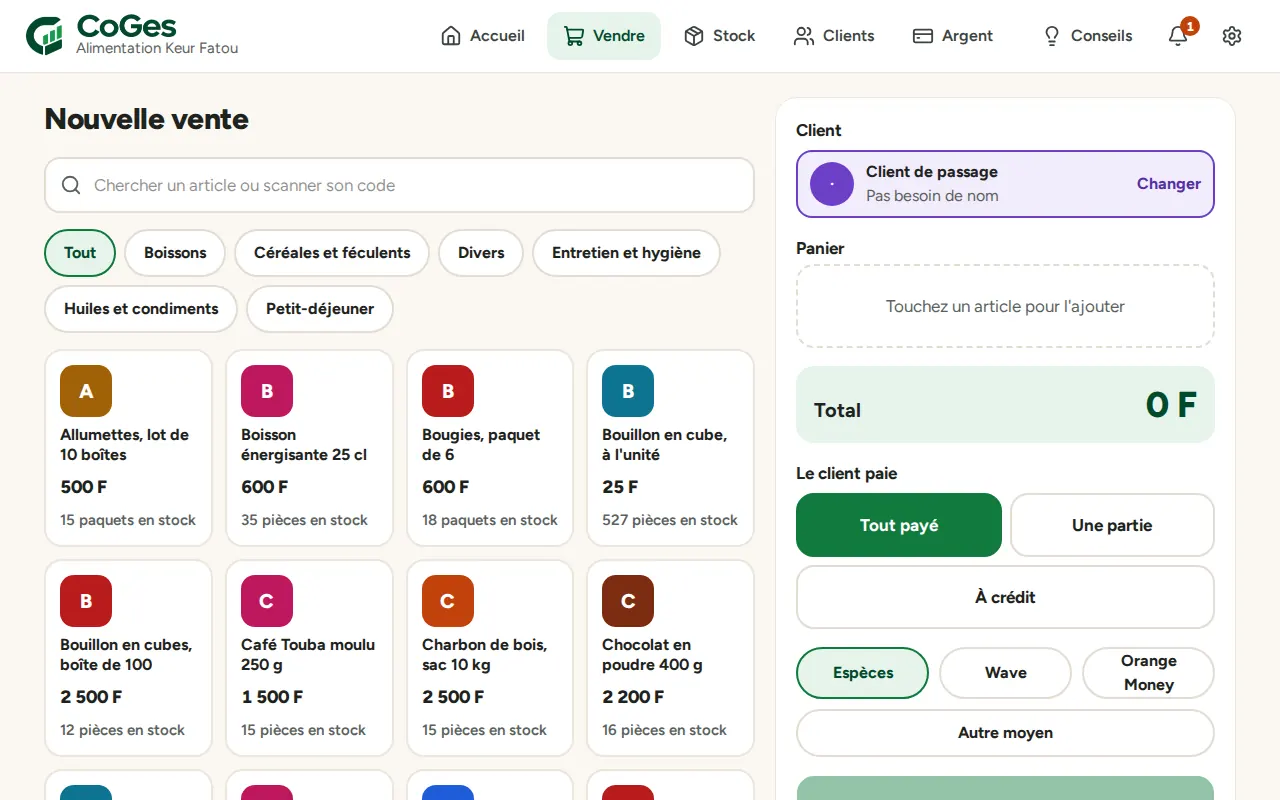
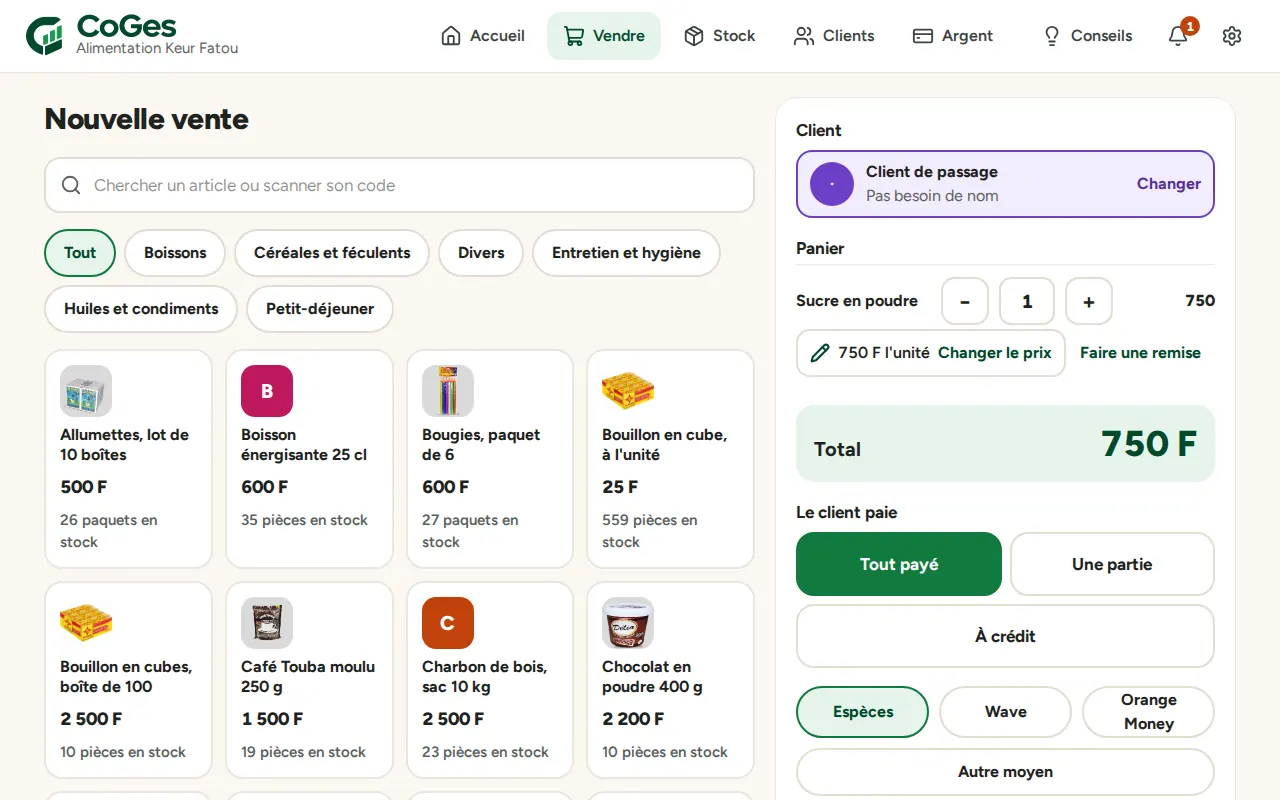
feat(front): desktop till capture shows real article photos (prompt 39, block P)
Photos supplied by the owner go through the real upload route to the
e2e fake Cloudinary, are served locally to the browser, then removed so
the demo stays photo-free for other suites. The new capture replaces the
desktop preview and the share image; the phone capture is unchanged.

diff --git a/frontend/e2e/captures-vitrine.spec.ts b/frontend/e2e/captures-vitrine.spec.ts
@@ -1,9 +1,9 @@
-import { readFileSync } from "node:fs";
+import { readdirSync, readFileSync } from "node:fs";
 import { join } from "node:path";
 
-import { expect, test, type Page } from "@playwright/test";
+import { expect, test, type APIRequestContext, type Page } from "@playwright/test";
 
-import { DEMO, loginThroughUi } from "./fixtures";
+import { DEMO, loginThroughUi, managerToken } from "./fixtures";
 import { settle } from "./screens";
 
 /**
@@ -26,18 +26,76 @@ async function hidePendingBanner(page: Page) {
     .evaluateAll((nodes) => nodes.forEach((node) => node.closest("[role=status], div")?.remove()));
 }
 
+/**
+ * Photos des articles de la démo pour la capture de la caisse (prompt 39, bloc P, ADR 0123) :
+ * `e2e/photos-demo/<référence>.jpg`, fournies par le propriétaire avec l'accord de leurs
+ * ayants droit. Elles passent par le vrai chemin (`PUT /products/{id}/photo`, vers le faux
+ * Cloudinary de l'API des parcours) ; le navigateur reçoit ensuite le fichier local à la place
+ * de `res.cloudinary.com`, sans réseau. Retirées après la capture : la démo des autres
+ * parcours reste sans photo.
+ */
+const PHOTOS = join(__dirname, "photos-demo");
+
+async function withDemoPhotos(
+  page: Page,
+  request: APIRequestContext,
+  capture: () => Promise<void>,
+): Promise<void> {
+  const headers = { Authorization: `Bearer ${await managerToken(request, DEMO)}` };
+  const byPublicId = new Map<string, Buffer>();
+  const placed: string[] = [];
+  try {
+    for (const file of readdirSync(PHOTOS).filter((name) => name.endsWith(".jpg"))) {
+      const sku = file.replace(/\.jpg$/, "");
+      const found = await request.get(`/api/v1/products?search=${encodeURIComponent(sku)}`, {
+        headers,
+      });
+      const product = (await found.json()).items.find((item: { sku: string }) => item.sku === sku);
+      expect(product, sku).toBeTruthy();
+      const body = readFileSync(join(PHOTOS, file));
+      const saved = await request.put(`/api/v1/products/${product.id}/photo`, {
+        headers,
+        multipart: { file: { name: file, mimeType: "image/jpeg", buffer: body } },
+      });
+      expect(saved.ok(), `${sku} → ${saved.status()}`).toBeTruthy();
+      byPublicId.set((await saved.json()).photo.public_id, body);
+      placed.push(product.id);
+    }
+    await page.route("https://res.cloudinary.com/**", (route) => {
+      const url = route.request().url();
+      const body = [...byPublicId].find(([id]) => url.endsWith(`/${id}`))?.[1];
+      return body
+        ? route.fulfill({ status: 200, contentType: "image/jpeg", body })
+        : route.fulfill({ status: 404 });
+    });
+    await capture();
+  } finally {
+    for (const id of placed) {
+      await request.delete(`/api/v1/products/${id}/photo`, { headers });
+    }
+  }
+}
+
 test.describe("captures de la vitrine", () => {
   test.skip(!OUT, "VITRINE_CAPTURES non défini");
   test.use({ colorScheme: "light" });
 
-  test("ordinateur : la caisse", async ({ page }) => {
+  test("ordinateur : la caisse, avec les photos des articles", async ({ page, request }) => {
     await page.setViewportSize({ width: 1280, height: 800 });
     await page.goto("/login");
     await loginThroughUi(page, DEMO);
     await expect(page).toHaveURL(/\/dashboard$/, { timeout: 30_000 });
-    await page.goto("/sales/new");
-    await settle(page);
-    await page.screenshot({ path: `${OUT}/ordinateur.png`, animations: "disabled" });
+    await withDemoPhotos(page, request, async () => {
+      await page.goto("/sales/new");
+      await settle(page);
+      // Toutes les vignettes visibles chargées avant la capture.
+      await page.waitForFunction(() =>
+        [...document.images]
+          .filter((image) => image.getClientRects().length > 0)
+          .every((image) => image.complete && image.naturalWidth > 0),
+      );
+      await page.screenshot({ path: `${OUT}/ordinateur.png`, animations: "disabled" });
+    });
   });
 
   test("téléphone : l'accueil", async ({ browser }) => {

diff --git a/frontend/content/vitrine-texte.ts b/frontend/content/vitrine-texte.ts
@@ -158,7 +158,7 @@ export const texte = {
     phoneAlt:
       "CoGes sur téléphone : l'accueil d'une épicerie de démonstration, avec le bouton « Nouvelle vente », le montant vendu aujourd'hui, l'argent dans la caisse, ce que les clients doivent, les articles à surveiller et les dernières ventes.",
     desktopAlt:
-      "CoGes sur ordinateur : l'écran « Nouvelle vente » d'une épicerie de démonstration, avec la recherche par nom ou code-barres, les rayons, les articles et leur prix, et à droite le panier, le total et le choix du paiement (espèces, Wave, Orange Money).",
+      "CoGes sur ordinateur : l'écran « Nouvelle vente » d'une épicerie de démonstration, avec la recherche par nom ou code-barres, les rayons, les articles avec leur photo et leur prix, et à droite le panier, le total et le choix du paiement (espèces, Wave, Orange Money).",
     phoneCaption: "Sur téléphone : l'accueil",
     desktopCaption: "Sur ordinateur : la caisse",
   },

diff --git a/CLAUDE.md b/CLAUDE.md
@@ -287,6 +287,7 @@ Légende : ⬜ à faire · 🟨 en cours · ✅ terminé (tests verts) · ⛔ bl
 | Groupe 5, N : notifications sur le téléphone | `36-groupe-5-corriger-une-vente-notifications-photos.md` | R | abonnement pour soi, adresse de service connu seulement, 5 appareils, isolation, envoi après COMMIT chiffré pour l'appareil, aucun montant par type, 404/410, rafale, personne qui agit, plafond horaire, déconnexion, clés VAPID (`check_runtime_env.py`) ; Vitest (lib, service worker) ; e2e Chromium (build de production) | 🟨 PR n° 84 (empilée sur 83) : ADR 0120, révision 0041 (`push_subscriptions`), `http-ece` 1.2.1 et `py-vapid` 1.9.6, `docs/runbooks/notifications.md` ; clés VAPID à poser par le propriétaire |
 | Groupe 5, I : photo d'un article | `36-groupe-5-corriger-une-vente-notifications-photos.md` | N | faux Cloudinary (signature vérifiée) : envoi, ré-encodage, métadonnées retirées, SVG et bombe refusés, retrait, article supprimé, COMMIT refusé, orphelines, isolation, droits, secret jamais rendu ; Vitest ; e2e (photo prise, vignette dans la grille, nouvel article, 360 px, axe) | 🟨 PR n° 85 (empilée sur 84) : ADR 0121, révision 0042 (`products.photo_*`), `PUT`/`DELETE /products/{id}/photo`, httpx sans SDK, `docs/runbooks/photos.md` ; compte et réglages Cloudinary à poser, sous-traitant à citer dans la confidentialité |
 | Groupe 5, A : fin du groupe | `36-groupe-5-corriger-une-vente-notifications-photos.md` | R, N, I | suite backend, ruff, mypy, front-check, admin-check, maquette-check, e2e des écrans touchés, PWA (Chromium et WebKit), fuite inter-tenant, pip-audit et gitleaks, CI | 🟨 PR n° 86 (empilée sur 85) : 2727 tests backend (1 échec local, `test_mailer.py`, qui dépend du `.env` du poste), 581 Vitest, maquette-check 41/41, PWA 13/13, analyses de sécurité propres ; PR 83 à 86 à fusionner dans l'ordre, puis déployer (révisions 0040 à 0042) après le groupe 2 |
+| Pages d'entrée : navigation, inscription, thème clair | `39-retouches-vitrine-inscription-connexion.md` | 37, 38, 30 | ancres de la navigation (Vitest), chemins toujours clairs (liste exacte), e2e en sombre (appareil + `theme=dark`) : pages claires, `/dashboard` sombre, stockage intact ; « Comment ça marche » (ordinateur, menu), inscription à 360 et 1280 px, axe, Lighthouse 100 (vitrine, `/login`, `/inscription`), maquette-check 41/41 | 🟨 PR N → S → C → P empilées : ADR 0123, sans révision ; 621 Vitest ; captures `docs/design/captures/prompt-39/` ; photos de la caisse fournies par le propriétaire (accord des ayants droit confirmé) |
 
 ## 9. Journal des décisions
 
@@ -415,6 +416,7 @@ Légende : ⬜ à faire · 🟨 en cours · ✅ terminé (tests verts) · ⛔ bl
 | 0120 | 2026-11-11 | **Notifications sur le téléphone** (prompt 36, bloc N) : Web Push par `http-ece` + `py-vapid` + httpx, clés `COGES_VAPID_*` (les trois ou aucune, `generate-vapid-keys`) ; `push_subscriptions` sous RLS (révision 0041, arrêt au lieu de DELETE, 5 appareils, un vivant par adresse) ; adresses de Google, Mozilla, Apple, Microsoft seulement ; `notify()` exige un texte par type sans montant (`push_texts`, revérifié à l'envoi), enfilé après COMMIT, envoyé par le worker hors transaction, 404/410 ⇒ arrêté ; rafale > 3/min ⇒ « N nouvelles alertes », `tag` commun ; pas de notification à qui annule ou corrige ; 30 par heure (Redis) ; écran `/account/notifications`, permission après l'appui, iPhone installé seulement, déconnexion ⇒ désabonné ; service worker `push` et `notificationclick` sans cache | `docs/decisions/0120-notifications-sur-le-telephone.md` |
 | 0121 | 2026-11-11 | **Photo d'un article chez Cloudinary** (prompt 36, bloc I) : envoi par le serveur (type lu dans le contenu, SVG et bombe refusés, JPEG 1600 px sans métadonnée, 5 Mo), dépôt signé par httpx sans SDK sous `coges-<env>/<entreprise>/<aléatoire>` ; révision 0042 (`products.photo_*`, toutes ou aucune) ; `PUT`/`DELETE /products/{id}/photo` (`products:update`, ou `products:create` sans photo), audit critique ; suppression par le worker après COMMIT, balayage de nuit des orphelines de plus de 24 h ; `COGES_CLOUDINARY_*` (trois ou aucun) ; vignettes `f_auto,q_auto` chargées à la demande, carré coloré sans photo ; CSP : `img-src` + `https://res.cloudinary.com` pour l'application seulement | `docs/decisions/0121-photo-d-un-article.md` |
 | 0122 | 2026-11-12 | **Adresse de l'API lue à l'exécution par le front** (correctif, amende 0047 et 0083) : `COGES_API_URL: http://${COGES_STACK}-api:8000` sur le service `front` (le bouton « Créer ma boutique » ne paraissait jamais : variable posée au build seulement) ; aucune adresse d'API dans les images `front`/`admin`, `next.config.ts` sans réécriture si elle manque au build (`api` est ambigu sur `coges_edge`) ; test découvert : toute lecture `process.env` du code servi est fournie par le compose | `docs/decisions/0122-adresse-de-l-api-lue-a-l-execution-par-le-front.md` |
+| 0123 | 2026-11-13 | **Pages d'entrée** (prompt 39) : « Comment ça marche » dans la navigation (`NAV_LINKS`, sections focalisables sous l'en-tête, WhatsApp de l'en-tête dès 1024 px) ; `EntreeLayout` partagé par la connexion (rendu inchangé), l'inscription et la vérification ; vitrine, connexion, inscription, vérification et textes légaux **toujours claires** par `forcedTheme` de next-themes selon le chemin (le piège `@custom-variant dark` écarte `.papier`), rien d'écrit dans le stockage, `color-scheme: light` et `theme-color` papier ; capture de la caisse refaite avec les photos des articles (vrai chemin vers le faux Cloudinary, photos du propriétaire) | `docs/decisions/0123-pages-d-entree-navigation-inscription-theme-clair.md` |
 Points ouverts connus, à trancher dans leur phase : voir `docs/architecture/README.md` (P1-P8).
 P1 à P6 et P8 sont tranchés (ADR 0002, 0005, 0005, 0027, 0015, 0019, 0043 puis 0091) ; reste **P7**
 (signalé, hors V1 technique).

diff --git a/docs/decisions/0123-pages-d-entree-navigation-inscription-theme-clair.md b/docs/decisions/0123-pages-d-entree-navigation-inscription-theme-clair.md
@@ -97,3 +97,23 @@ Ni l'authentification ni l'inscription ne changent (`proxy.ts`, `coges_known`, a
   `forcedTheme`. Les tests du lot 38 qui mesuraient la vitrine en sombre vérifient
   maintenant qu'elle reste identique (contraste du mot relayé) ou ne passent plus qu'en clair
   (CLS).
+
+## Bloc P — capture de la caisse avec les photos des articles
+- Les photos sont fournies par le propriétaire. Elles portent le filigrane d'un site
+  marchand et des marques connues. Le prompt demandait d'éviter ce genre d'image ; le
+  propriétaire a confirmé, par AskUserQuestion le 2026-11-13, avoir l'accord écrit du site
+  et des marques pour un usage commercial. Les photos sont publiées telles quelles, filigrane
+  compris. **Retirer la capture si cet accord tombe.**
+- Elles sont rangées dans `frontend/e2e/photos-demo/<référence de la démo>.jpg` (JPEG à
+  85 %, 230 Ko en tout). Correspondances : riz 25 kg, huile 5 L, bouillon (boîte et unité),
+  sucre, soda, allumettes, bougies, café Touba, chocolat, savon.
+- `e2e/captures-vitrine.spec.ts` passe par le **vrai chemin** : `PUT /products/{id}/photo` du
+  gérant de la démo, vers le faux Cloudinary de l'API des parcours (ADR 0121). Le navigateur
+  reçoit le fichier local à la place de `res.cloudinary.com`, sans réseau. Les photos sont
+  retirées après la capture (`DELETE`), si bien que la démo des autres parcours reste sans
+  photo (vérifié en base).
+- La nouvelle `public/vitrine/apercu-ordinateur.webp` (59 Ko) **remplace** l'ancienne, et
+  l'image de partage (`partage.png`, refaite à partir de la même capture) suit. La grille,
+  classée par ordre alphabétique, montre six vignettes photo et trois carrés colorés : c'est
+  le vrai rendu d'une boutique dont tous les articles n'ont pas de photo. La capture du
+  téléphone ne change pas. Le texte de remplacement cite désormais les photos.
